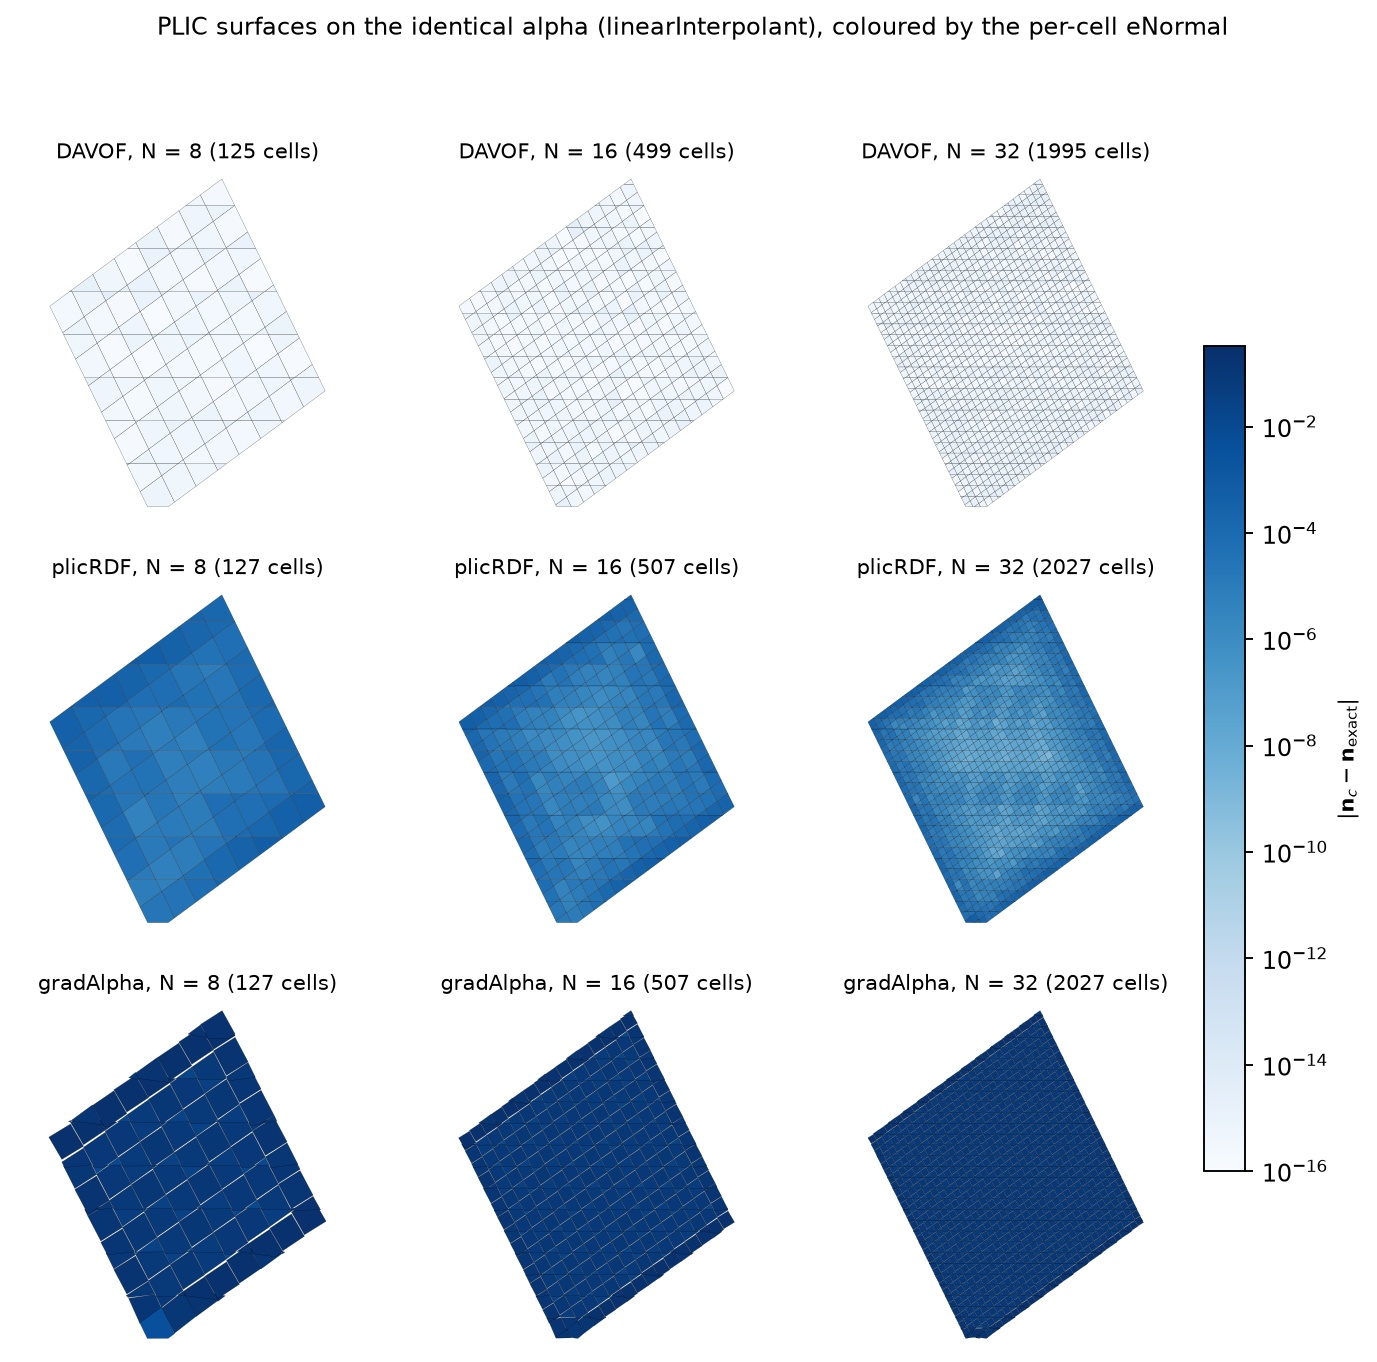
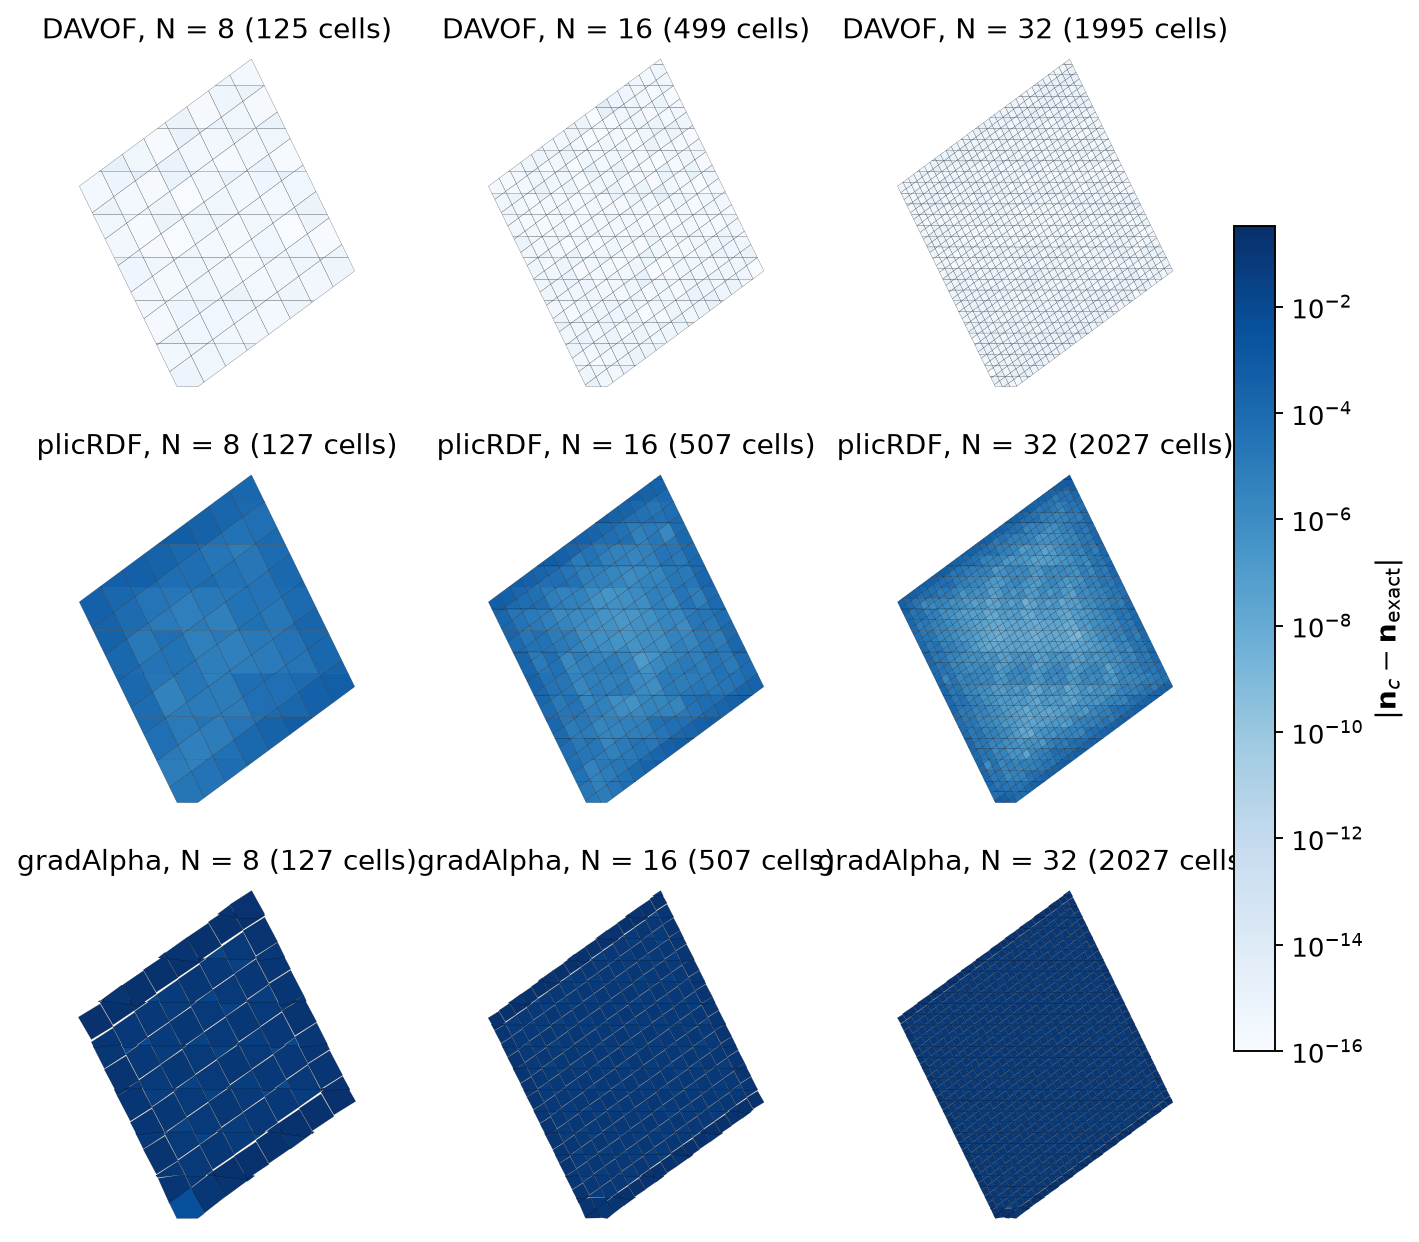
davof: render_davof_interfaces.py without the in-figure title, larger panel labels
The proposal caption says what is drawn; the panel titles and the colour-bar
label are readable at half a text width.

diff --git a/workflow/scripts/render_davof_interfaces.py b/workflow/scripts/render_davof_interfaces.py
@@ -207,13 +207,16 @@ def main(argv):
             ax.set_ylim(mid[1] - span/2, mid[1] + span/2)
             ax.set_aspect("equal")
             ax.set_title(f"{MODEL_LABEL.get(m, m)}, N = {N} ({len(polys)} cells)",
-                         fontsize=9)
+                         fontsize=12)
     sm = plt.cm.ScalarMappable(norm=norm, cmap=cmap)
     sm.set_array([])
     cbar = fig.colorbar(sm, ax=axes.ravel().tolist(), shrink=0.7, pad=0.02)
-    cbar.set_label(FIELD_LABEL.get(a.field, a.field), fontsize=9)
-    fig.suptitle(f"PLIC surfaces on the identical alpha ({a.alpha_source}), "
-                 f"coloured by the per-cell {a.field}", fontsize=10)
+    cbar.set_label(FIELD_LABEL.get(a.field, a.field), fontsize=12)
+    cbar.ax.tick_params(labelsize=11)
+    # No figure title: the caption of the document that includes it says what
+    # is drawn (alpha source and field are in the file name's study and the log).
+    print(f"[render] {study}: alpha source {a.alpha_source}, field {a.field}, "
+          f"models {models}, N {[N for N, _ in cases]}")
     figs = paths.figs_dir(a.theme)
     os.makedirs(figs, exist_ok=True)
     for ext in ("pdf", "png"):
